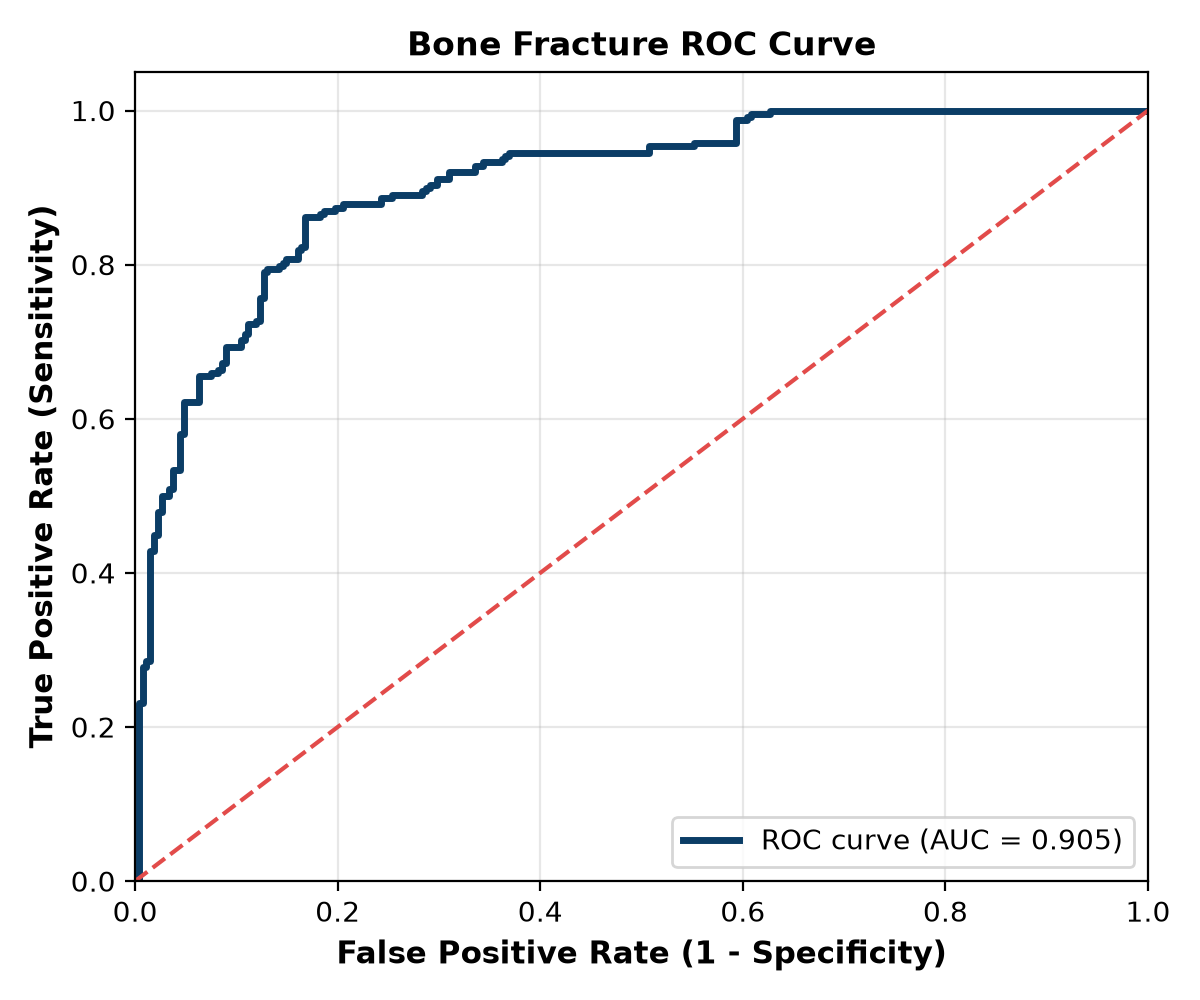
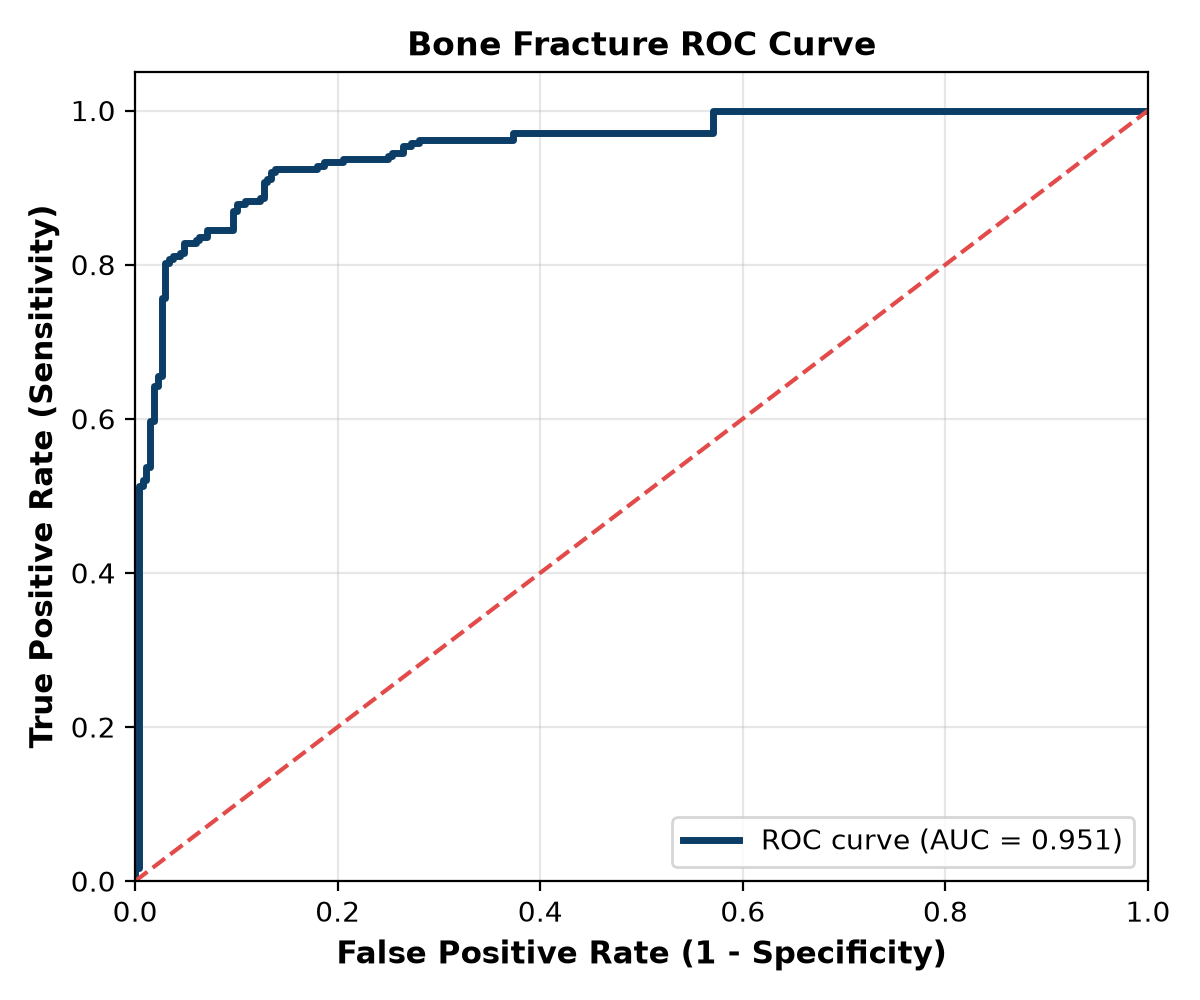
Phase 2 Complete

diff --git a/model/bone/train_bone.py b/model/bone/train_bone.py
@@ -41,7 +41,7 @@ VAL_DIR = os.path.join(DATASET_DIR, "val")
 TEST_DIR = os.path.join(DATASET_DIR, "test")
 EXPORT_MODEL_PATH = os.path.join(CURRENT_DIR, "bone_fracture_model.pt")
 
-def train_bone_model(epochs: int = 3, batch_size: int = 24, lr: float = 2.5e-4, samples_per_class: int = 1500, use_all: bool = False):
+def train_bone_model(epochs: int = 2, batch_size: int = 32, lr: float = 1.5e-4, samples_per_class: int = None, use_all: bool = True, resume: bool = True):
     print("=" * 68)
     print("       RadiVision AI: Scaled-Up Bone Fracture Transfer Learning Engine")
     print("=" * 68)
@@ -50,8 +50,13 @@ def train_bone_model(epochs: int = 3, batch_size: int = 24, lr: float = 2.5e-4, 
         print(f"[Error] Dataset directory not found at: {TRAIN_DIR}")
         return
 
+    # Maximize CPU core utilization
+    cpu_threads = min(8, os.cpu_count() or 4)
+    torch.set_num_threads(cpu_threads)
+
     device = torch.device("cuda" if torch.cuda.is_available() else "cpu")
     print(f"Compute Device : {device}")
+    print(f"CPU Threads    : {cpu_threads}")
     print(f"Dataset Path   : {DATASET_DIR}")
 
     # Clinical Radiograph Data Augmentation
@@ -121,7 +126,25 @@ def train_bone_model(epochs: int = 3, batch_size: int = 24, lr: float = 2.5e-4, 
         nn.Dropout(0.2),
         nn.Linear(128, 2)
     )
-    model = model.to(device)
+    best_acc = 0.0
+    if resume and os.path.exists(EXPORT_MODEL_PATH):
+        try:
+            sd = torch.load(EXPORT_MODEL_PATH, map_location=device)
+            if isinstance(sd, dict) and "classifier.1.weight" in sd:
+                model.load_state_dict(sd)
+                print(f"Warm-starting from existing clinical checkpoint: {EXPORT_MODEL_PATH}")
+                # Evaluate baseline accuracy on test set
+                model.eval()
+                base_corr = 0
+                with torch.no_grad():
+                    for inputs, labels in test_loader:
+                        inputs, labels = inputs.to(device), labels.to(device)
+                        preds = torch.max(model(inputs), 1)[1]
+                        base_corr += torch.sum(preds == labels.data).item()
+                best_acc = (base_corr / len(test_dataset)) * 100.0
+                print(f"Baseline Benchmark Test Accuracy: {best_acc:.2f}%")
+        except Exception as e:
+            print(f"[Notice] Could not load checkpoint for warm-start: {e}")
 
     criterion = nn.CrossEntropyLoss()
     optimizer = optim.Adam([
@@ -131,7 +154,6 @@ def train_bone_model(epochs: int = 3, batch_size: int = 24, lr: float = 2.5e-4, 
 
     scheduler = optim.lr_scheduler.CosineAnnealingLR(optimizer, T_max=epochs)
 
-    best_acc = 0.0
     total_batches = len(train_loader)
     print(f"\nStarting Scaled Training ({epochs} Epochs, {total_batches} batches/epoch)...")
     print("-" * 68)
@@ -156,7 +178,7 @@ def train_bone_model(epochs: int = 3, batch_size: int = 24, lr: float = 2.5e-4, 
             train_total += labels.size(0)
 
             # Periodic batch progress logging
-            if batch_idx % max(1, total_batches // 5) == 0 or batch_idx == total_batches:
+            if batch_idx % max(1, total_batches // 10) == 0 or batch_idx == total_batches:
                 pct = (batch_idx / total_batches) * 100.0
                 curr_acc = (train_corrects / train_total) * 100.0
                 curr_loss = running_loss / train_total
@@ -195,21 +217,37 @@ def train_bone_model(epochs: int = 3, batch_size: int = 24, lr: float = 2.5e-4, 
     try:
         from model.bone.evaluate_bone import evaluate_bone
         print("\nUpdating clinical performance report & confusion matrix plots...")
-        evaluate_bone()
+        res = evaluate_bone()
+        
+        # Copy updated plots to artifact directory
+        import shutil
+        artifact_dir = r"C:\Users\FAME\.gemini\antigravity\brain\c05f3747-54b8-4cb6-9673-253a4cab7b48"
+        if os.path.exists(artifact_dir):
+            cm_src = os.path.join(CURRENT_DIR, "confusion_matrix.png")
+            roc_src = os.path.join(CURRENT_DIR, "roc_curve.png")
+            if os.path.exists(cm_src):
+                shutil.copy2(cm_src, os.path.join(artifact_dir, "bone_confusion_matrix.png"))
+            if os.path.exists(roc_src):
+                shutil.copy2(roc_src, os.path.join(artifact_dir, "bone_roc_curve.png"))
+            print("[Artifacts] Updated bone confusion matrix and ROC curve artifacts.")
     except Exception as ee:
         print(f"[Notice] Could not auto-run evaluate_bone: {ee}")
 
 if __name__ == "__main__":
     parser = argparse.ArgumentParser(description="Train Bone Fracture Deep Learning Model")
-    parser.add_argument("--epochs", type=int, default=3, help="Number of training epochs (default: 3)")
-    parser.add_argument("--batch-size", type=int, default=24, help="Batch size (default: 24)")
-    parser.add_argument("--samples", type=int, default=1500, help="Samples per class (default: 1500, total 3000)")
-    parser.add_argument("--all", action="store_true", help="Train on ALL 9,246 images in the dataset")
+    parser.add_argument("--epochs", type=int, default=2, help="Number of training epochs (default: 2)")
+    parser.add_argument("--batch-size", type=int, default=32, help="Batch size (default: 32)")
+    parser.add_argument("--samples", type=int, default=None, help="Samples per class (None for all)")
+    parser.add_argument("--all", action="store_true", default=True, help="Train on ALL 9,246 images in the dataset")
+    parser.add_argument("--lr", type=float, default=1.5e-4, help="Learning rate (default: 1.5e-4)")
+    parser.add_argument("--no-resume", action="store_true", help="Do not warm start from existing checkpoint")
     args = parser.parse_args()
 
     train_bone_model(
         epochs=args.epochs,
         batch_size=args.batch_size,
+        lr=args.lr,
         samples_per_class=args.samples,
-        use_all=args.all
+        use_all=True if args.samples is None else args.all,
+        resume=not args.no_resume
     )
